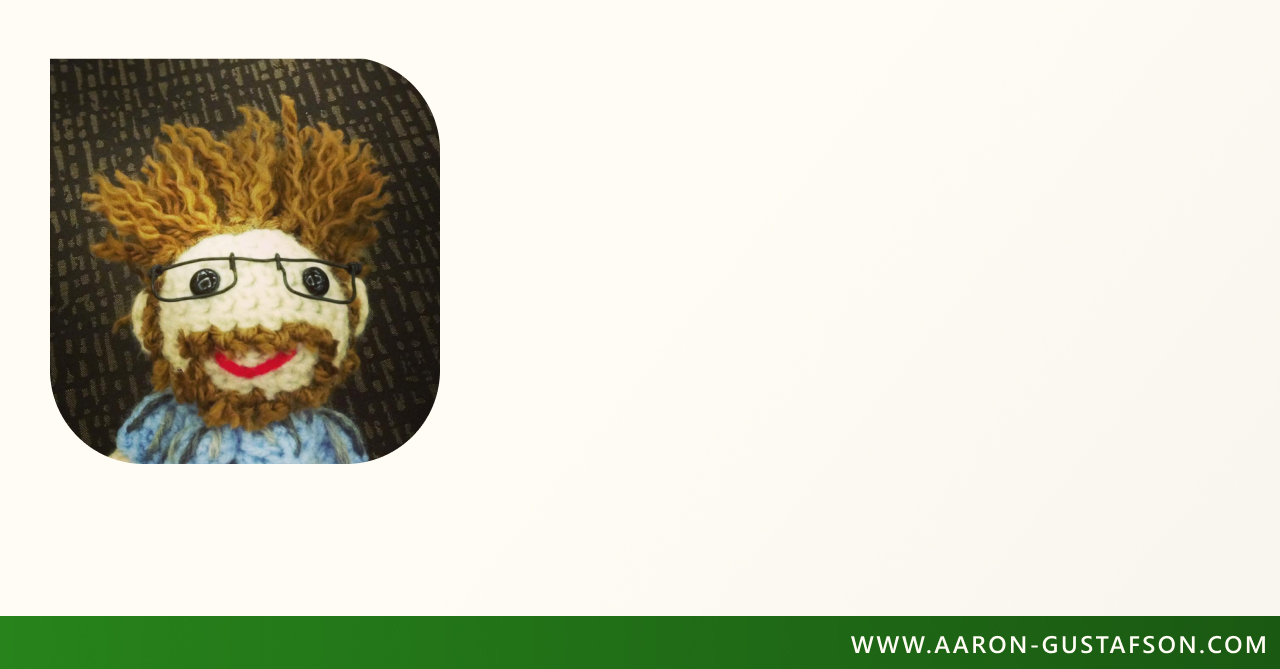
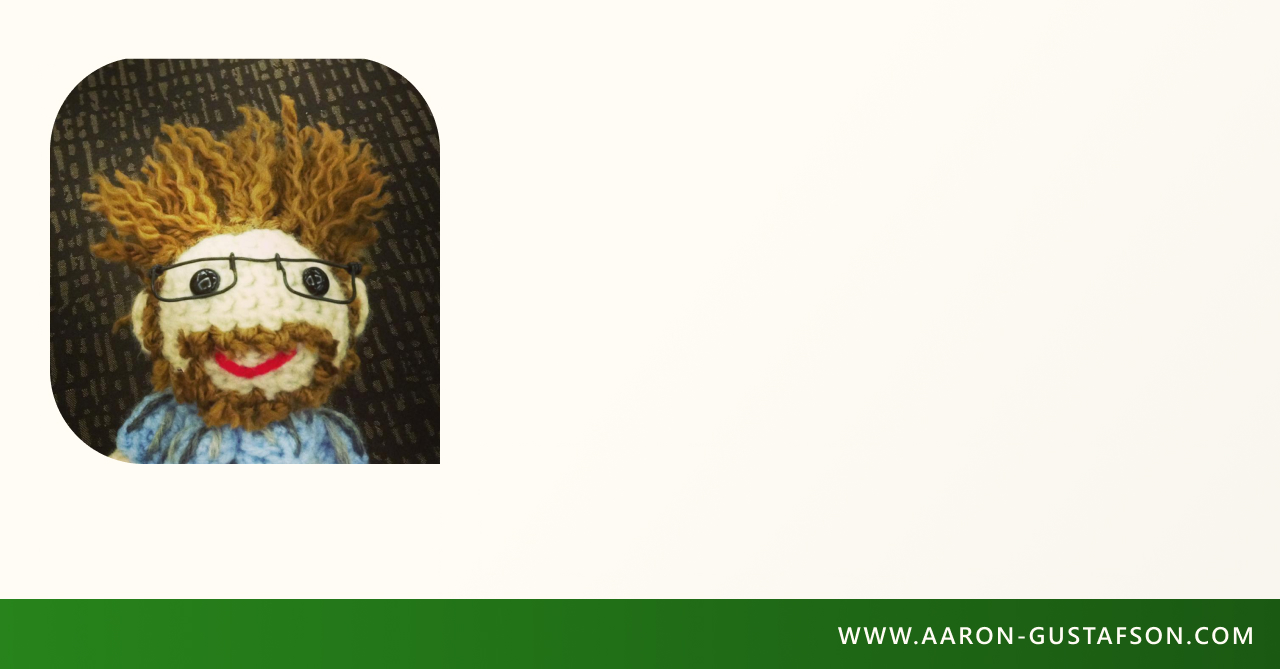
Updated share card

Changed region(s): [[0.0, 0.8969, 1.0, 0.9865], [0.2812, 0.5979, 0.3438, 0.7175], [0.0312, 0.0897, 0.0938, 0.1794]]

diff --git a/src/posts/posts.11tydata.js b/src/posts/posts.11tydata.js
@@ -17,23 +17,23 @@ module.exports = {
     image: (data) => {
       return getShareImage({
         cloudName: "aarongustafson",
-        imagePublicID: "share-card_xvdf2w",
+        imagePublicID: "share-card",
         tagline: tagsToString(data.tags),
         taglineColor: "505050",
         taglineFont: "Open Sans",
-        // light, 760px wide
-        taglineExtraConfig: "_light_w_760",
+        // light, -5 line spacing
+        taglineExtraConfig: "_light_line_spacing_-5",
         taglineFontSize: 36,
         taglineGravity: "north_west",
         taglineLeftOffset: 480,
-        taglineTopOffset: 495,
-        textAreaWidth: 600,
+        taglineTopOffset: 505,
+        textAreaWidth: 760,
         title: data.title,
         titleFont: "Source Serif Pro",
-        titleFontSize: 64,
+        titleFontSize: 72,
         titleGravity: "south_west",
-        // 600 weight, 760px wide, -10 line spacing
-        titleExtraConfig: "_600_w_760_line_spacing_-15",
+        // 700 weight, -18 line spacing
+        titleExtraConfig: "_700_line_spacing_-18",
         titleLeftOffset: 480,
         titleBottomOffset: 205,
         textColor: "2C2825",
